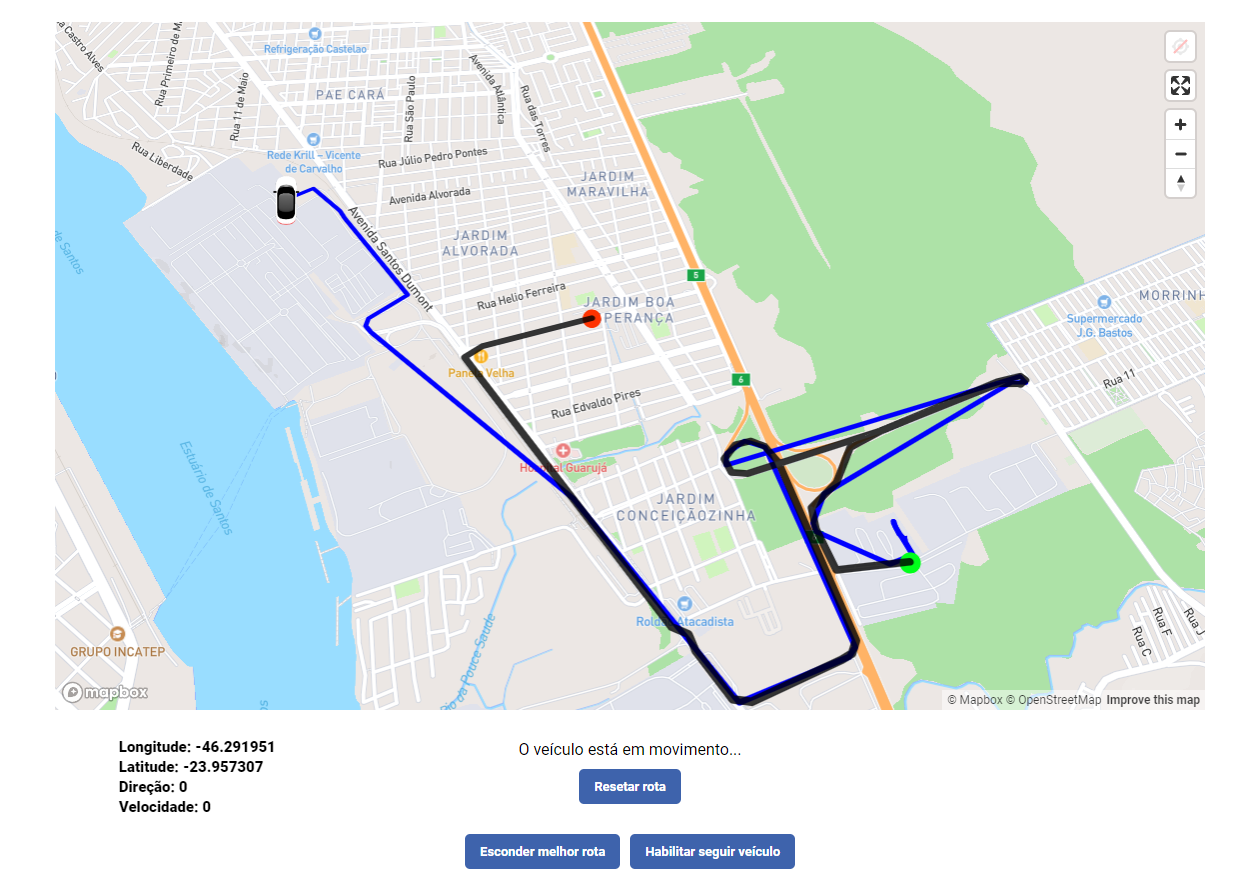
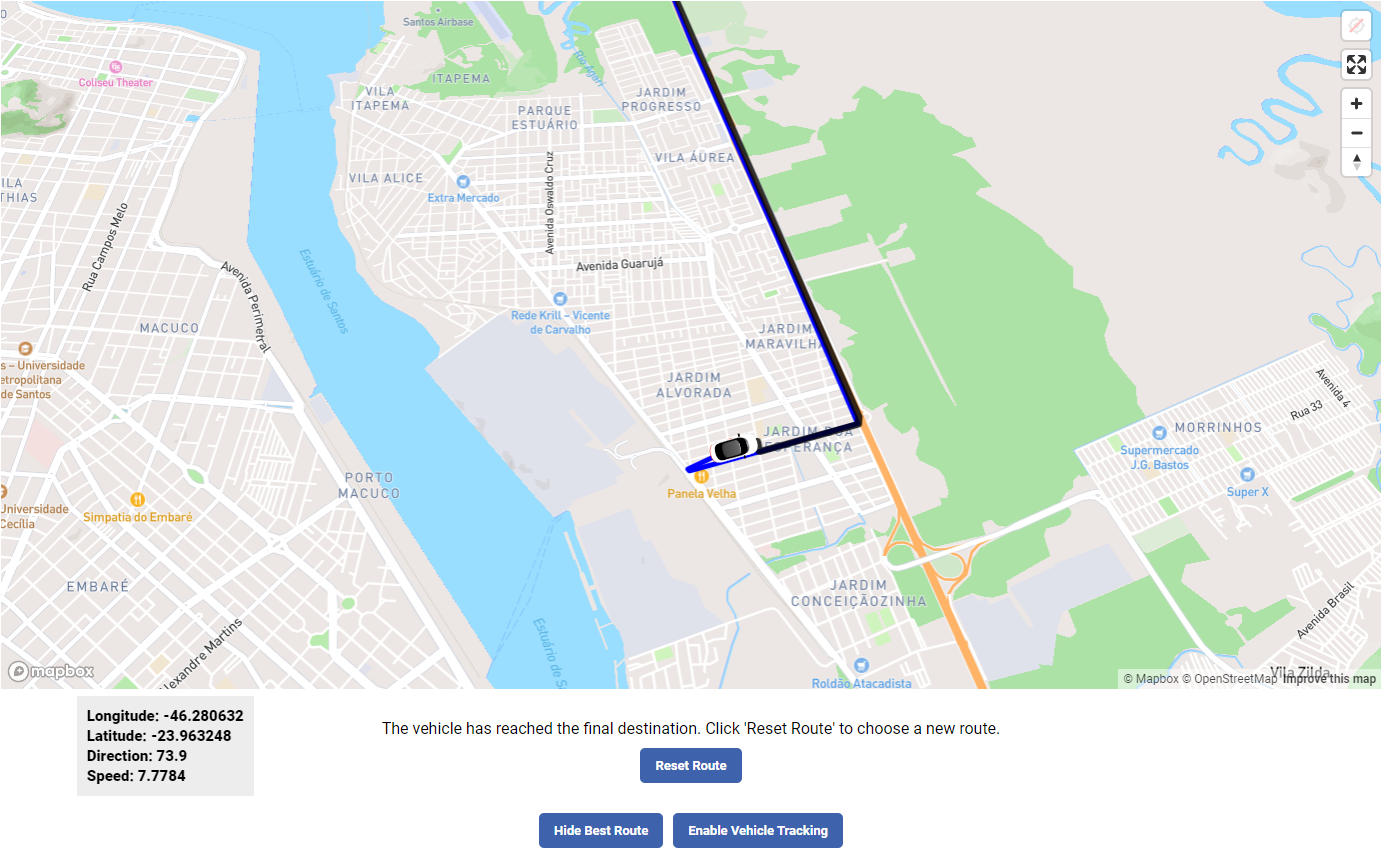
docs: adicionando imagens nos arquivos README

diff --git a/README-pt.md b/README-pt.md
@@ -38,6 +38,12 @@ Em seguida, foram criados quatro componentes do React, cujos nomes são: 'CarMar
 3. BestRoute renderiza a rota mais eficiente do ponto de início da rota até o ponto final da rota. O usuário pode optar por visualizar o trajeto (linha de cor preta) ou não. Neste componente, é realizada uma requisição do tipo GET para a API Mapbox Directions.
 4. Options renderiza todos os botões do menu, incluindo 'Iniciar rota 1', 'Iniciar rota 2', 'Iniciar rota 3', 'Iniciar rota 4', 'Iniciar rota 5', 'Exibir melhor rota', 'Habilitar seguir veículo', 'Esconder melhor rota', 'Desabilitar seguir veículo' e 'Resetar rota'. Neste componente, também é verificado se o carro já chegou ao seu destino final ou se solicita ao usuário que escolha uma rota.
 
+#### Imagens
+
+<img align="center" src='./public/images/readme/img1.png'>
+
+<img align="center" src='./public/images/readme/img2.png'>
+
 #### Objetivo
 
 <p align="justify">

diff --git a/README.md b/README.md
@@ -38,6 +38,12 @@ Next, four React components were created, named 'CarMarker,' 'VehicleRoute,' 'Be
 3. BestRoute renders the most efficient route from the starting point of the route to the endpoint. The user can choose to view the path (a black line) or not. In this component, a GET request is made to the Mapbox Directions API.
 4. Options renders all the menu buttons, including 'Start route 1,' 'Start route 2,' 'Start route 3,' 'Start route 4,' 'Start route 5,' 'Show best route,' 'Enable vehicle tracking,' 'Hide best route,' 'Disable vehicle tracking,' and 'Reset route.' In this component, it is also checked whether the car has already reached its final destination or if the user is prompted to choose a route.
 
+#### Images
+
+<img align="center" src='./public/images/readme/img1.png'>
+
+<img align="center" src='./public/images/readme/img2.png'>
+
 #### Goal
 
 <p align="justify">
